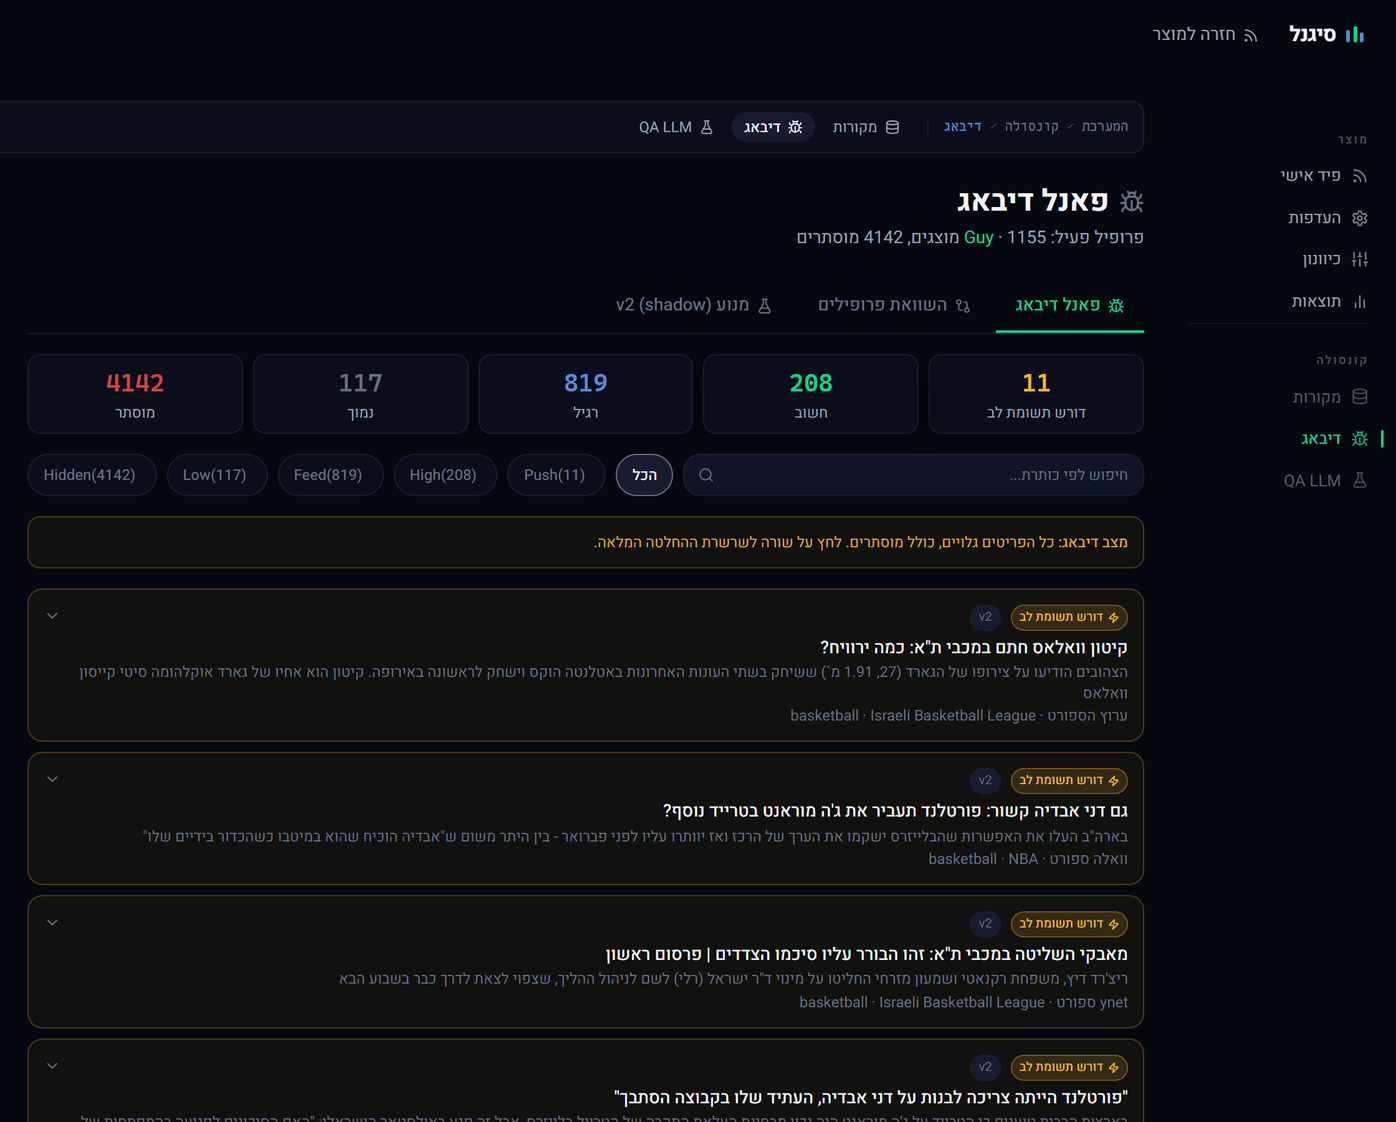
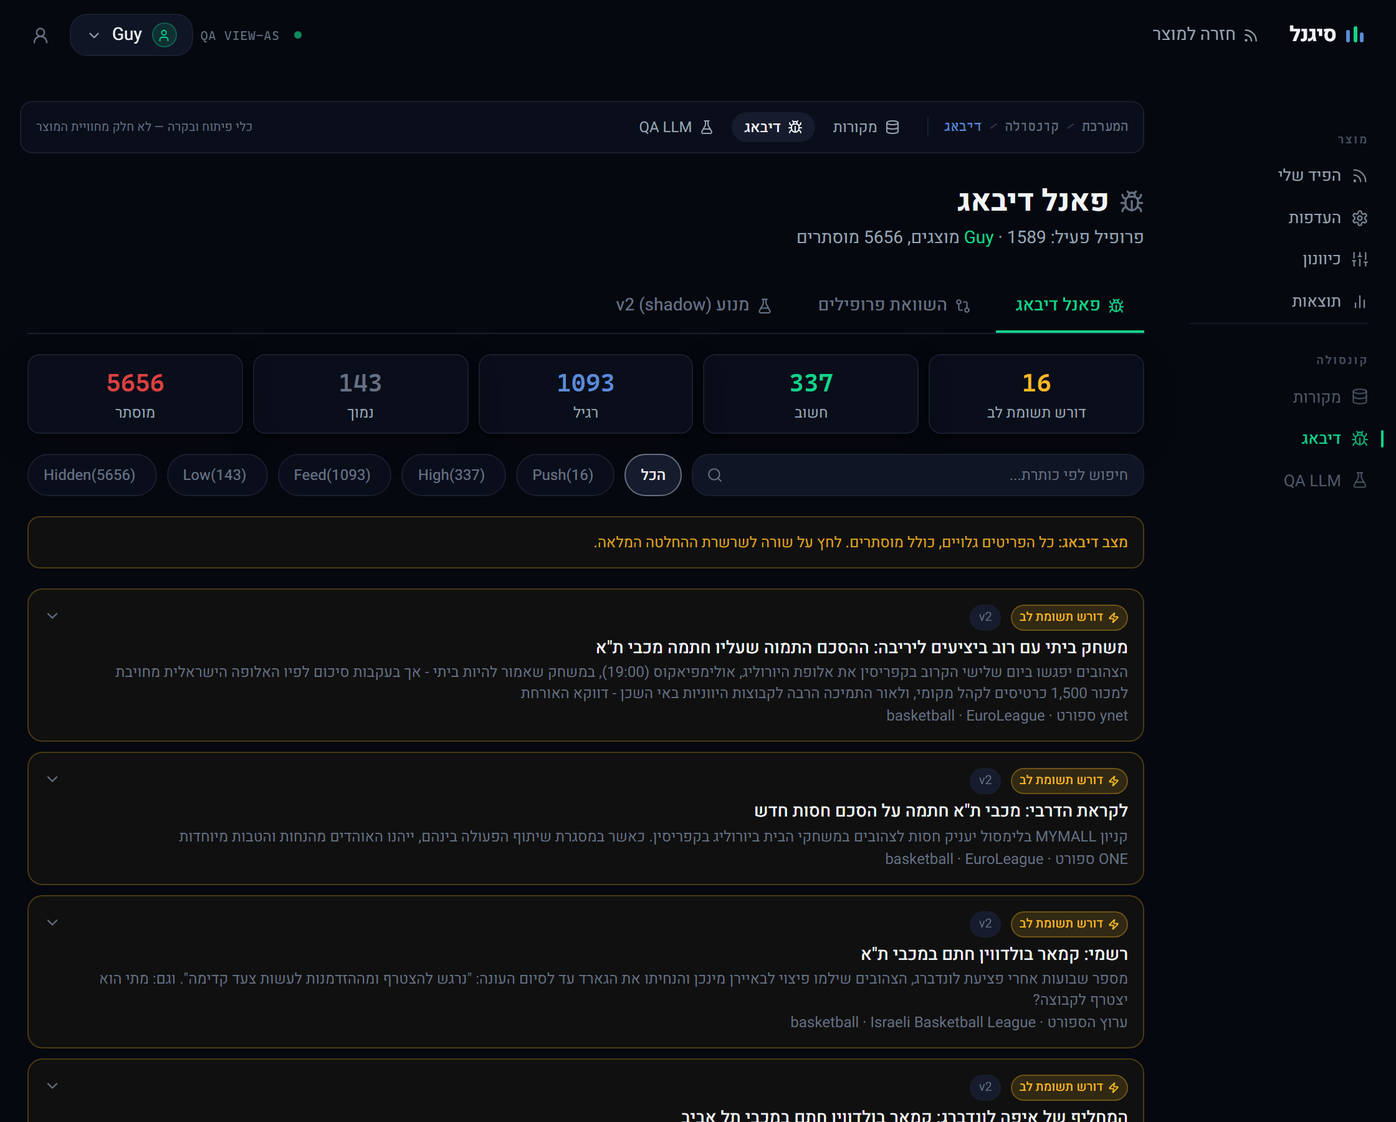
docs(readme): refresh screenshots, real-data examples and stale claims (2026-11-18) (#588)
* docs(readme): refresh screenshots and real-data examples to 2026-11-18

All five README screenshots are retaken from the current UI on a
read-only copy of the live corpus (preview stack, no outbound network):
feed, results and preferences in the new light layout, the ops debug
panel viewing as guy, and the 390 px phone feed.

Every data-driven passage is recomputed from the same 2026-11-18
snapshot with the production Preference V2 engine for the guy and
casual_deni_fan profiles:

- 48-hour window: 480 articles, guy sees 118, the Deni fan 25, no push
- example table: seven current headlines with their decisions
- push example: the Kamar Baldwin signing (scored, not sent: Telegram off)
- cluster and misses: the Baldwin clustering split and the bare-"מכבי"
  recall miss (Lorenzo Brown)
- counts: LLM gate ~38% (was ~28%), classified_by mix over 7,261 rows,
  23 competitions, 34 tables, ~35k/~19k lines, 4,534 pytest and 1,052
  Vitest tests
- census gate: the 11-01 baseline plus the 11-18 measurement
  (95.8% shown precision, 72.5% feed+ recall)

* docs(readme): correct results providers, preferences copy and preview tip

A self-review of the refreshed README found claims that no longer match
the code:

- results came only from "TheSportsDB"; the live config routes each
  competition (ESPN for the NBA, the EuroLeague feed, Ligat Winner,
  football.co.il) with TheSportsDB as the default and stale fallback
[…]

diff --git a/README.md b/README.md
@@ -12,10 +12,10 @@ Read only the few stories that matter to *you*, without checking seven sports si
 ![Vite](https://img.shields.io/badge/Vite-6-646CFF?logo=vite&logoColor=white)
 ![SQLite](https://img.shields.io/badge/SQLite-WAL-003B57?logo=sqlite&logoColor=white)
 
-<img src="docs/assets/readme/feed.png" alt="Guy's real feed on 2026-11-07: the Pierria Henry story in the centre, the rest of the ranking beside it" width="900">
+<img src="docs/assets/readme/feed.png" alt="Guy's real feed on 2026-11-18: four lead stories across the top, a strip of followed results, and the rest of the ranking below" width="900">
 
-<sub>The real feed of the `guy` profile on 2026-11-07, built from the live corpus: 56 stories out of
-5,297 ingested reports. The leading story is the Pierria Henry suspension saga.</sub>
+<sub>The real feed of the `guy` profile on 2026-11-18, built from the live corpus: 75 stories passed
+the filter (21 of them important) out of 7,245 ingested reports.</sub>
 
 </div>
 
@@ -55,56 +55,69 @@ Every headline below is a real article that the worker ingested from Israeli spo
 scored by the production engine against two profiles:
 
 - **Guy**, a basketball power user: Maccabi Tel Aviv basketball first, then the EuroLeague, the
-  NBA (broadly) and the Israeli league; football and tennis only at low priority.
+  EuroCup, the NBA (broadly) and the Israeli league; football and tennis only at low priority.
 - **Casual Deni fan**, who follows Deni Avdija and nothing else.
 
-In the 48 hours to the evening of 2026-11-07 the worker stored **338 articles** (173 football,
-129 basketball, 14 tennis, 22 with no confidently known sport). **Guy sees 77 of them. The
-Deni fan sees 15.** Neither got a push.
+In the 48 hours to the morning of 2026-11-18 the sources published **480 articles** (224 football,
+193 basketball, 19 tennis, 44 with no confidently known sport). **Guy sees 118 of them. The
+Deni fan sees 25.** Neither got a push.
 
 | Headline (source) | Facts the classifier extracted | Guy | Deni fan |
 |---|---|---|---|
-| [רוצה חוזה במאות מיליונים: דני אבדיה קיבל החלטה קריטית](https://www.israelhayom.co.il/sport/world-basketball/article/21797172) (Israel Hayom) | basketball · NBA · Deni Avdija · `news` | `high_feed` | `high_feed` |
-| [אבדיה אמר לברוקס בעימות: אני יותר טוב ממך](https://www.one.co.il/Article/538119.html) (ONE) | basketball · NBA · Deni Avdija · `news` | `feed` | `high_feed` |
-| [פרייריה הנרי במשא ומתן עם מכבי תל אביב](https://www.one.co.il/Article/538226.html) (ONE) | basketball · Israeli league · Maccabi TLV · `negotiation` | `high_feed` | `hidden` |
-| [מכה למכבי תל אביב: איפה לונדברג ייעדר לכשלושה חודשים](https://www.israelhayom.co.il/sport/israeli-basketball/article/21796201) (Israel Hayom) | basketball · Israeli league · Maccabi TLV · `injury` | `high_feed` | `hidden` |
-| [30 נקודות לבוקר ו-24 לברוקס בניצחון של פיניקס](https://www.one.co.il/Article/538106.html) (ONE, also Ynet) | basketball · NBA · Phoenix Suns · `match_result` | `feed` | `hidden` |
-| [רבע 1, 07:19: הפועל חולון - גליל עליון 4:6](https://www.one.co.il/Article/538126.html) (ONE) | basketball · Israeli league · two clubs · live score | `low_feed` | `hidden` |
-| [מאור לוי יחזור להרכב, אבוחצירה כשיר למכבי חיפה](https://www.one.co.il/Article/538103.html) (ONE) | football · Israeli Premier League · lineup news | `hidden` | `hidden` |
+| [בלי דני אבדיה הפצוע: פורטלנד ספגה הפסד אכזרי מול מינסוטה](https://www.israelhayom.co.il/sport/article/21877744) (Israel Hayom) | basketball · NBA · Deni Avdija, Portland, Minnesota · `injury` | `high_feed` | `high_feed` |
+| [פינץ' איבד סבלנות: התעמת עם השופט בגלל אבדיה](https://www.one.co.il/Article/539089.html) (ONE) | basketball · NBA · Deni Avdija · `news` | `feed` | `high_feed` |
+| [בעיטה מפוארת בדלי: מכבי תל אביב הפסידה לאולימפיאקוס](https://sports.walla.co.il/item/3876572) (Walla) | basketball · EuroLeague · Maccabi TLV, Olympiacos · `match_result` | `high_feed` | `hidden` |
+| [החזרה מתעכבת: לונדברג יעבור ניתוח בברך](https://www.sport5.co.il/articles.aspx?FolderID=405&docID=568053) (Sport5, also Israel Hayom) | basketball · Israeli league · Maccabi TLV · `injury` | `high_feed` | `hidden` |
+| [דטרויט עצרה את סן אנטוניו, הניקס חגגו בטורונטו](https://www.one.co.il/Article/539187.html) (ONE, also Ynet) | basketball · NBA · four clubs · `match_result` | `feed` | `hidden` |
+| [כך הפועל ירושלים הפכה לקבוצה הטובה ביותר בכדורסל הישראלי](https://www.ynet.co.il/sport/article/rjuetv000fg) (Ynet) | basketball · Israeli league · Hapoel Jerusalem · `news` | `low_feed` | `hidden` |
+| [ז'ופאריץ' ינותח, פחימה חזר לאימוני הפועל חיפה](https://www.one.co.il/Article/539040.html) (ONE) | football · Israeli Premier League · Hapoel Haifa · `injury` | `hidden` | `hidden` |
 
 What the table shows:
 
-- **The same article gets different decisions.** A regular-season Phoenix win is normal feed for
+- **The same article gets different decisions.** A regular-season Detroit win is normal feed for
   someone who follows the whole NBA and noise for someone who follows one player.
 - **The Deni fan rates Deni higher than Guy does.** For Guy, Deni is one interest among many. For
   the fan, he is the only one.
-- **Injuries are important, not urgent.** The Lundberg injury is `high_feed`, not `push`. That is an
-  explicit product rule: an injury never triggers a push.
-- **Live-score ticks are kept but pushed down** (`low_feed`), and pre-match lineup items for a
-  sport Guy follows at low priority disappear.
+- **Injuries are important, not urgent.** Lundberg's knee surgery is `high_feed`, not `push`. That
+  is an explicit product rule: an injury never triggers a push.
+- **Weaker interests are kept but pushed down.** A general feature about Hapoel Jerusalem (its
+  "why" line: the club plays in the EuroCup, which Guy follows) lands at `low_feed`; football
+  injury news, a sport Guy follows at low priority, disappears.
 
 Each visible card carries a Hebrew "why" line built from the actual contribution path, for
-example *"מכבי תל אביב (כדורסל) ברשימת המעקב שלך"* or *"פיניקס סאנס משחקת ב-NBA, שברשימת המעקב שלך"*.
+example *"מכבי תל אביב (כדורסל) ברשימת המעקב שלך"* or
+*"פורטלנד בלייזרס משחקת ב-NBA, שברשימת המעקב שלך · בכתבה: דני אבדיה"*.
 
 ### A real push
 
-Push is reserved for a few explicit rules. On 2026-07-22, Sport5 published
-[**"איפה לונדברג סיכם על חוזה חדש במכבי תל אביב"**](https://www.sport5.co.il/articles.aspx?FolderID=274&docID=554077).
-Guy's profile has an `always_push` rule for Maccabi negotiations, and the headline states a
-completed agreement. So it scored `push` for Guy, and the Telegram pilot sent it to his phone.
-For the Deni fan it was `hidden`. Two days later Israel Hayom reported
-["דיווח: לוני ווקר במו"מ עם קבוצה ענקית מהיורוליג"](https://www.israelhayom.co.il/sport/world-basketball/article/21050541),
-also a Maccabi negotiation, and it stayed at `high_feed`: a negotiation that is only *in progress*
-does not pass the severity gate.
+Push is reserved for a few explicit rules. On 2026-11-10, Ynet published
+[**"הרכז קמאר בולדווין חתם במכבי ת"א"**](https://www.ynet.co.il/sport/israelibasketball/article/cd5naodj6).
+Guy's profile has an `always_push` rule for Maccabi signings, and the headline states a completed
+signing, so it scored `push` for Guy. For the Deni fan it was `hidden`. (Telegram delivery has been
+off since September, so the push was scored, not sent.) The night before, Sport5 reported the
+same move while it was still open,
+["מכבי מצאה רכש? קמאר בולדווין קרוב לחתימה"](https://www.sport5.co.il/articles.aspx?FolderID=274&docID=567117),
+and that stayed at `feed`: a transaction that is only *close* does not pass the severity gate.
 
-### A real cluster, and a real miss
+### A real cluster, and real misses
 
-Three outlets reported the Pierria Henry move on 2026-11-07. Walla's
-["מכבי תל אביב צפויה לצרף את פייריה הנרי"](https://sports.walla.co.il/item/3875306) and Ynet's
-["פייריה הנרי סיכם וינחת בישראל בשבוע הבא"](https://www.ynet.co.il/sport/israelibasketball/article/hkoa5nntzl)
-were grouped into one story. Guy still sees only the Walla report. Ynet's headline never names
-Maccabi, and Henry is not in the taxonomy, so that report has no entity and is `hidden` for Guy.
-Clustering never shows a hidden member, so the more advanced fact ("agreed") never reached him.
+The Baldwin signing was reported at least five times in 30 hours. Sport5's "close to signing",
+Ynet's "signed" and Walla's
+["קמאר חתימה: עשרה דברים שלא ידעתם על קמאר בולדווין"](https://sports.walla.co.il/item/3875760)
+were grouped into one story. The card takes the highest decision among the members Guy can see
+(`push`), and the Walla piece, `hidden` for Guy, never appears in it. But two more reports of the
+same signing, Walla's
+["המחליף של איפה לונדברג: קמאר בולדווין חתם במכבי תל אביב"](https://sports.walla.co.il/item/3875744)
+and Sport5's next-morning
+["רשמי: קמאר בולדווין חתם במכבי ת"א"](https://www.sport5.co.il/articles.aspx?FolderID=405&docID=567183),
+stayed outside the cluster. One signing produced three push-level cards, and because Baldwin is
+not in the taxonomy, the planner's same-development check (which needs a registered person) would
+not merge them into one message either.
+
+Recall has the same root. Sport5's
+["התעלל במכבי": ברשת הריעו ללורנזו בראון](https://www.sport5.co.il/articles.aspx?FolderID=274&docID=567666)
+(2026-11-14) is about Maccabi, but a bare `מכבי` never resolves to a club and Brown is not in the
+taxonomy, so the article has no entity and no competition and is `hidden` for Guy.
 
 That is the main weakness today: **recall on stories that name no registered team or person.**
 In the October census, 71 of 76 wrongly hidden stories had no competition, and 34 had no entity.
@@ -148,7 +161,7 @@ Desktop browser ─────────────────┤
                                  │
           Worker  python -m app.worker          5-min cycles behind a durable lease
                                  │
-          LLM (OpenAI-compatible or Ollama)   TheSportsDB   Telegram Bot API
+          LLM (OpenAI-compatible or Ollama)   results providers   Telegram Bot API
 ```
 
 The API and the worker are separate processes sharing one SQLite file in WAL mode. The worker
@@ -164,7 +177,8 @@ overlapping cycles. A heartbeat row (`worker_status`) shows whether the worker i
    via its public JSON) → sport-section filter → URL dedup → classify → insert;
 3. compute story anchors and update clusters;
 4. plan notifications per story, then dispatch them through an outbox;
-5. sync game results for followed teams (TheSportsDB, throttled);
+5. sync game results and box scores, each competition from its routed provider (see
+   [Results](#tech-stack)), throttled, with finished games cached permanently;
 6. release the lease and record the run, with per-source metrics and failure reasons.
 
 A failed source degrades the cycle instead of failing it. A source that returns nothing is a
@@ -182,8 +196,8 @@ entity, `event_type=news`). A wrong fact reaches the feed as truth; a missing on
 flowchart TD
     I["Title · subtitle · URL · source"] --> R["1. Rules classifier<br/>(always runs)"]
     R --> GT{"2. LLM gate<br/>are the rules unsure?"}
-    GT -->|"no (~72%)"| N["5. Normalize<br/>league ↔ sport · club enrichment"]
-    GT -->|"yes (~28%)"| LLM["3. LLM proposal<br/>strict JSON, closed enums"]
+    GT -->|"no (~62%)"| N["5. Normalize<br/>league ↔ sport · club enrichment"]
+    GT -->|"yes (~38%)"| LLM["3. LLM proposal<br/>strict JSON, closed enums"]
     LLM -->|"failed / confidence < 0.65"| N
     LLM --> M["4. Merge guardrails<br/>rules evidence vetoes the LLM"]
     M --> N
@@ -218,7 +232,8 @@ provider is configured, and only while the per-run circuit breaker is closed. It
 keyword matches a resolved league, when a source hint agrees and there is already context, when
 the result is strong (league plus confidence ≥ 0.80, or entity plus a specific event plus
 confidence ≥ 0.75), and for generic `news` (a probe showed the LLM changed 0 of 16 of those).
-Every decision records its reason. About 28% of eligible articles reach the LLM.
+Every decision records its reason. About 38% of the articles the gate sees are sent to the LLM,
+most of them because the rules could not tell the sport.
 
 **3. LLM proposal** (`classification/prompt.py`, `providers.py`). Title and subtitle go in; a
 strict JSON object comes out, with closed enums for sport, league and event type, at temperature 0.
@@ -273,12 +288,13 @@ afterwards only through reviewed, backed-up correction scripts, after an in-memo
 whole corpus. Full contracts: [ARTICLE_FACTS](docs/ARTICLE_FACTS.md),
 [LLM_CLASSIFICATION](docs/LLM_CLASSIFICATION.md), [RSS_QUALITY_GUARDRAILS](docs/RSS_QUALITY_GUARDRAILS.md).
 
-Of the 5,297 stored articles, 63% were classified by rules alone and 18% with the LLM involved.
-Another 18% fell back to rules after an LLM failure, most of them during a local-model timeout
-period in October; each run counts these so an outage's cost is visible.
+Of the 7,261 stored articles, 62% were classified by rules alone and 22% with the LLM involved.
+Another 14% fell back to rules after an LLM failure (478 of them in July, 216 in October and 166
+so far in November) and 2% on low LLM confidence; each run counts these so an outage's cost is
+visible.
 
 **Taxonomy** (`app/taxonomy/`) is the single source of entity truth: 117 entities (79 teams,
-31 players, 2 coaches, 5 executives) and 22 competitions. Bare family names like `מכבי` or `הפועל`
+31 players, 2 coaches, 5 executives) and 23 competitions. Bare family names like `מכבי` or `הפועל`
 never resolve to a club on their own.
 
 ### Relevance: Preference V2
@@ -326,7 +342,7 @@ five outlets report it.
 
 ### Persistence and safety
 
-- **SQLite + SQLAlchemy 2.0**, 29 tables, additive soft migrations at startup that fail loudly.
+- **SQLite + SQLAlchemy 2.0**, 34 tables, additive soft migrations at startup that fail loudly.
   Postgres exists only as CI-rehearsed groundwork.
 - **The corpus is evidence.** It holds the article ids of every human rating, so code guards
   refuse resets, and stored facts change only through reviewed, backed-up correction scripts
@@ -339,8 +355,8 @@ five outlets report it.
 
 | | |
 |---|---|
-| Backend | ~31k lines of Python in `backend/app/`, **4,048 pytest tests** |
-| Frontend | ~16k lines in `frontend/src/`, ~620 Vitest tests, ESLint + TypeScript checks |
+| Backend | ~35k lines of Python in `backend/app/`, **4,534 pytest tests** |
+| Frontend | ~19k lines in `frontend/src/`, 1,052 Vitest tests, ESLint + TypeScript checks |
 | CI | `checks.yml` (backend + frontend on every PR) · `images.yml` (Docker images, compose smoke test, backup/restore, deploy and Postgres rehearsals) · `devcontainer.yml` · `lock-refresh.yml` (hash-pinned `requirements.lock`) · `publish-images.yml` |
 
 ### Design decisions
@@ -359,9 +375,9 @@ five outlets report it.
 Unit tests prove the engine does what it was told. **Owner ratings** prove whether it was told the
 right thing:
 
-- **Census gate.** 804 articles, each rated by the owner. The engine must not regress. Current
-  baseline for Guy: shown precision 95.9%, feed-or-higher recall 73.9%. The Deni profile must not
-  drift.
+- **Census gate.** 804 articles, each rated by the owner. The engine must not regress. Baseline
+  for Guy (2026-11-01): shown precision 95.9%, feed-or-higher recall 73.9%. On the 2026-11-18
+  snapshot: 95.8% and 72.5%. The Deni profile must not drift (0 flips on 2026-11-18).
 - **N05 gate.** 282 ratings on a frozen July corpus: Guy shown precision 98.3%, push 7/7.
 - **Census #3.** 300 articles from November, rated blind, with a sealed held-out half.
 - Rerun diffs of the whole corpus, in memory, before any classifier change.
@@ -377,7 +393,7 @@ disagreements are treated as rating noise.
 | Backend | FastAPI, Python 3.13, SQLAlchemy 2.0 on SQLite (WAL) |
 | Worker | Scheduled ingestion cycles behind a single-flight lease |
 | Classification | Rules first, then an optional LLM (an OpenAI-compatible API or local Ollama) behind guardrails |
-| Results | TheSportsDB |
+| Results | Per-competition routing: ESPN (NBA), the EuroLeague's official feed (EuroLeague, EuroCup), Ligat Winner (Israeli basketball and cups), football.co.il (Israeli Premier League); TheSportsDB for everything else and as the fallback when a route goes stale |
 | Push | Telegram Bot API |
 | Packaging | Docker images and Compose for hosting (CI-rehearsed, not deployed) |
 
@@ -388,18 +404,21 @@ disagreements are treated as rating noise.
 <td width="50%" valign="top">
 
 ### 🎯 Preferences that mean something
-Not just on/off toggles: *"NBA: everything"*, *"Tennis: only Grand Slam winners"*,
-*"Football: only major transfers"*, plus followed players and teams.
+Not just on/off toggles. Follow competitions, teams and players, star the ones you must not miss,
+and turn each kind of news (transfers, injuries, results, interviews) up or down. What
+calibration and feedback learned is listed separately, so it is always clear where a preference
+came from.
 
-<img src="docs/assets/readme/preferences.png" alt="Preferences page: sports, competitions and followed teams">
+<img src="docs/assets/readme/preferences.png" alt="Preferences page: followed competitions per sport (basketball, football, tennis)">
 
 </td>
 <td width="50%" valign="top">
 
 ### 🏀 Results that are about you
-Only games of the teams and leagues you follow, with no general scoreboard.
+Only games of the teams and leagues you follow, with no general scoreboard: your teams' latest
+games first, then scores by day, tonight's schedule, and stat lines for the players you pick.
 
-<img src="docs/assets/readme/results.png" alt="Results page: real NBA, EuroLeague and Israeli league scores">
+<img src="docs/assets/readme/results.png" alt="Results page: the followed teams' latest games, then real NBA and EuroLeague scores by day">
 
 </td>
 </tr>
@@ -410,7 +429,7 @@ Only games of the teams and leagues you follow, with no general scoreboard.
 Every article, including the hidden ones, with the full decision path, so a wrong decision is
 easy to spot.
 
-<img src="docs/assets/readme/debug.png" alt="Debug panel: every article in the corpus by decision tier">
+<img src="docs/assets/readme/debug.png" alt="Debug panel viewing as Guy: every article in the corpus by decision tier">
 
 </td>
 <td width="38%" valign="top">
@@ -424,7 +443,7 @@ The same feed at a 390 px phone width. The owner opens it over Tailscale.
 </tr>
 </table>
 
-All screenshots show real data. They were taken on 2026-11-07 from a read-only snapshot of the live
+All screenshots show real data. They were taken on 2026-11-18 from a read-only snapshot of the live
 database.
 
 **Also:** onboarding (interest picker plus calibration), feedback learning, a private Telegram push
@@ -444,13 +463,13 @@ signal-sports/
 │   │   ├── services/        Preference V2 engine, feed, learning, calibration, auth
 │   │   ├── clustering/      deterministic story clustering
 │   │   ├── notifications/   planner, outbox, dispatcher, Telegram
-│   │   ├── results/         TheSportsDB sync
+│   │   ├── results/         results providers, routing, box-score sync
 │   │   ├── qa/              gate logic shared by CI and the local corpus tools
 │   │   └── worker.py        the scheduler process
 │   ├── scripts/     corpus tools: gates, census, rerun diff, reviewed correction scripts
 │   └── tests/
 ├── deploy/          hosted-stack Compose, deploy/backup/restore scripts (CI-rehearsed)
-├── scripts/         worker.ps1 (start/stop/status), check.ps1
+├── scripts/         worker.ps1 (start/stop/status), check.ps1, preview.ps1
 ├── docs/            contracts, current state, QA evidence
 └── .claude/skills/  Claude Code project workflows
 ```
@@ -473,6 +492,8 @@ npm run dev                                                 # http://localhost:5
 
 > **Tip:** `VITE_DATA_MODE=local` runs the frontend on bundled sample data without a backend.
 > `VITE_DATA_MODE=backend` (in `frontend/.env.local`) uses the real API.
+> `powershell -File scripts\preview.ps1 -Worktree <path>` runs a branch next to the live stack, on
+> a copy of the corpus, with Telegram and outbound network off.
 
 **Checks** (the same as CI): `powershell -File scripts\check.ps1` (`-Backend` or `-Frontend` for
 one side), or `cd backend; .venv\Scripts\python -m pytest tests -q` and
